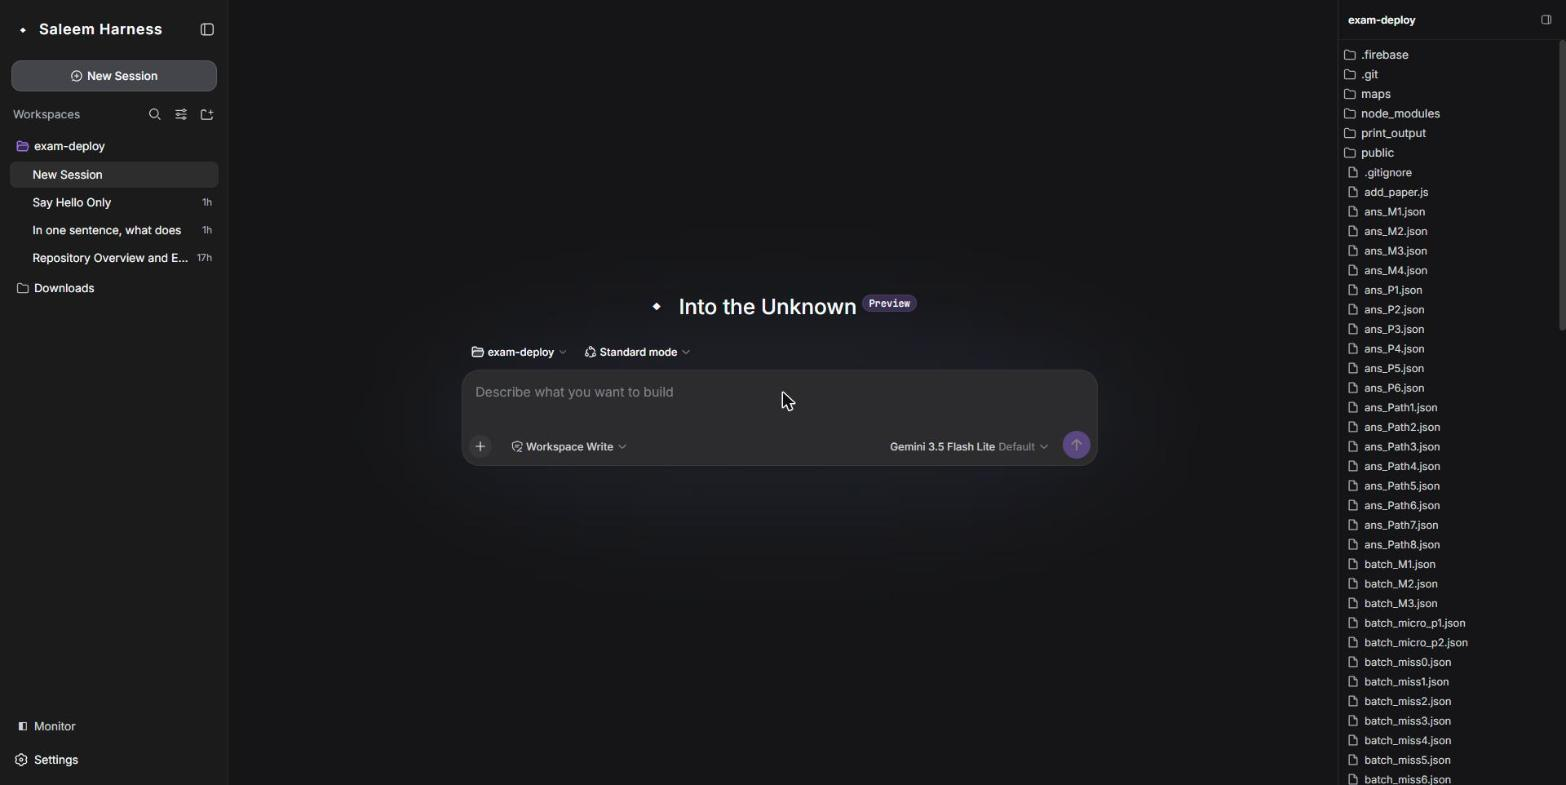
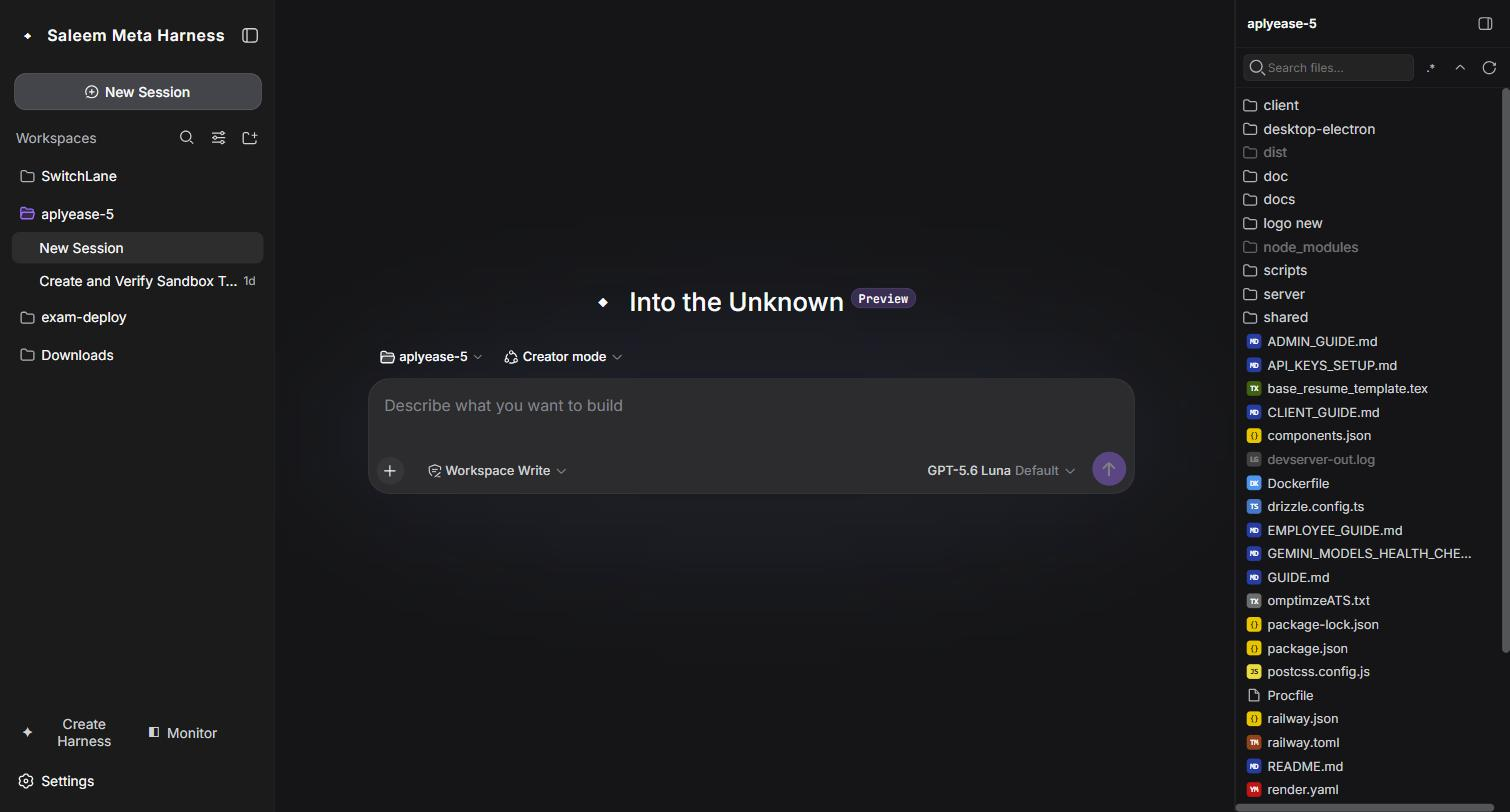
Bring stale brand-era tests current and refresh the README screenshots
Thirteen tests still asserted strings from two earlier rebrands and had been
failing ever since, so every test run carried noise that hid real regressions:

- The welcome notice test pinned the original DeepSeek two-paragraph copy; the
  shipped notice is one Saleem Meta Harness paragraph.
- The web-app and headless suites expected the printed command prefix to be
  'dsh' -- it has been 'saleem' since that rename.
- One prompt-section assertion still expected 'DeepSeek Harness implementation
  checkout'.
- The boot page test expected the wordmark 'HARNESS'; it renders 'SALEEM'. This
  one survived the last sweep because the wordmark is uppercase and the grep was
  for the mixed-case product name.

Two of these were pinned in ways that guaranteed they would go stale again, so
they are now derived rather than hardcoded: the notice's paragraph count comes
from the copy itself, and a new assertion pins that the notice carries the
product name at all -- which is the thing a rebrand actually breaks.

Screenshots were all from before the rename and before the factory existed, so
the README showed the old brand and none of the headline feature. Replaces the
main UI and Monitor overview shots, and adds two for the Harness Factory: the
template picker and a real generated harness with its persona, methodology and
both download options.

Broad test pass now fails 8 where it failed 19, with the remainder load-related
[…]

diff --git a/packages/bundle/web-app/tests/web-app.spec.ts b/packages/bundle/web-app/tests/web-app.spec.ts
@@ -127,16 +127,16 @@ describe('web-app runtime glue', () => {
       lanAddresses: ['192.168.1.5'],
       trustedHosts: ['192.168.1.5', 'lab.internal'],
     })
-    expect(log).toHaveBeenCalledWith('dsh web: http://127.0.0.1:4567 (LAN: http://192.168.1.5:4567)')
-    expect(log).toHaveBeenCalledWith('dsh web: opening the default browser; pass --no-open to disable')
+    expect(log).toHaveBeenCalledWith('saleem web: http://127.0.0.1:4567 (LAN: http://192.168.1.5:4567)')
+    expect(log).toHaveBeenCalledWith('saleem web: opening the default browser; pass --no-open to disable')
     expect(openBrowser).toHaveBeenCalledWith('http://127.0.0.1:4567')
     expect(lifecycle).toEqual([
-      'dsh web: http://127.0.0.1:4567 (LAN: http://192.168.1.5:4567)',
-      'dsh web: opening the default browser; pass --no-open to disable',
+      'saleem web: http://127.0.0.1:4567 (LAN: http://192.168.1.5:4567)',
+      'saleem web: opening the default browser; pass --no-open to disable',
       'open:http://127.0.0.1:4567',
     ])
     const assembly = await ctx.systemPrompt.assemble()
-    expect(assembly.sections.find(entry => entry.name === 'harness:source')?.text).toContain('DeepSeek Harness implementation checkout')
+    expect(assembly.sections.find(entry => entry.name === 'harness:source')?.text).toContain('Saleem Meta Harness implementation checkout')
     const section = assembly.sections.find(entry => entry.name === 'app:web-surface')
     expect(section?.text).toContain('http://127.0.0.1:4567')
     // The single update contract: the receiver is always on; no-refresh
@@ -193,7 +193,7 @@ describe('web-app runtime glue', () => {
     const log = vi.spyOn(console, 'log').mockImplementation(() => {})
     apply(ctx, new Config({ openBrowser: false, printUrl: true, surfaceContext: true, trustedHosts: [] }))
     await new Promise(resolve => setTimeout(resolve, 0))
-    expect(log).toHaveBeenCalledWith('dsh web: http://127.0.0.1:4567')
+    expect(log).toHaveBeenCalledWith('saleem web: http://127.0.0.1:4567')
     await ctx.fiber.dispose()
   })
 
@@ -210,7 +210,7 @@ describe('web-app runtime glue', () => {
     internals.openBrowser = openBrowser
     apply(ctx, new Config({ openBrowser: true, printUrl: true, surfaceContext: false, trustedHosts: [] }))
     await new Promise(resolve => setTimeout(resolve, 0))
-    expect(log).toHaveBeenCalledWith('dsh web: http://127.0.0.1:4567')
+    expect(log).toHaveBeenCalledWith('saleem web: http://127.0.0.1:4567')
     expect(openBrowser).not.toHaveBeenCalled()
     await ctx.fiber.dispose()
   })
@@ -233,7 +233,7 @@ describe('web-app runtime glue', () => {
     expect(openBrowser).not.toHaveBeenCalled()
     release!()
     await new Promise(resolve => setTimeout(resolve, 0))
-    expect(log).toHaveBeenCalledWith('dsh web: http://127.0.0.1:4567')
+    expect(log).toHaveBeenCalledWith('saleem web: http://127.0.0.1:4567')
     expect(openBrowser).toHaveBeenCalledWith('http://127.0.0.1:4567')
     await settled.fiber.dispose()
 
@@ -310,7 +310,7 @@ describe('web-app runtime glue', () => {
     const diagnostic = vi.spyOn(console, 'error').mockImplementation(() => {})
     apply(ctx, new Config({ openBrowser: true, printUrl: false, surfaceContext: false, trustedHosts: [] }))
     await new Promise(resolve => setTimeout(resolve, 0))
-    expect(log).toHaveBeenCalledWith('dsh web: opening the default browser; pass --no-open to disable')
+    expect(log).toHaveBeenCalledWith('saleem web: opening the default browser; pass --no-open to disable')
     expect(diagnostic).toHaveBeenCalledWith(
       `web-app: could not open the default browser because ${reason}; visit http://127.0.0.1:4567 manually`,
     )

diff --git a/packages/client/ui-settings-models/tests/welcome-notice.client.spec.tsx b/packages/client/ui-settings-models/tests/welcome-notice.client.spec.tsx
@@ -88,12 +88,20 @@ function mount(
 describe('WelcomeNotice', () => {
   it('uses the exact owner copy in both GUI locales', () => {
     expect(WELCOME_NOTICE_COPY.en).toEqual({
-      title: 'Internal Testing Notice',
-      body: "DeepSeek Harness 0.1 remains in testing for Harness developers. Many areas need further improvement, and we welcome feedback from the developer community. DeepSeek Harness's core plugins and foundational APIs will continue to evolve rapidly over the coming months.\n\nWe look forward to exploring the limits of intelligence with developers around the world, building on open-source, open, reusable, and composable infrastructure. We welcome Harness developers everywhere to join the DSH plugin ecosystem.",
+      title: 'Welcome',
+      body: 'Saleem Meta Harness is under active development; core plugins and foundational APIs may evolve quickly.',
       continueLabel: 'Continue',
     })
     expect(en.welcomeBody).toBe(WELCOME_NOTICE_COPY.en.body)
     expect(zh.welcomeBody).toBe(WELCOME_NOTICE_COPY.zh.body)
+  })
+
+  it('carries the product name, so a rebrand cannot leave this notice behind', () => {
+    // This copy went stale twice across two rebrands before anything caught it,
+    // because the assertion above pins the text and nothing pinned the name.
+    for (const locale of ['en', 'zh'] as const) {
+      expect(WELCOME_NOTICE_COPY[locale].body, locale).toContain('Saleem Meta Harness')
+    }
   })
 
   it('renders one blocking modal action and focuses the title', async () => {
@@ -102,7 +110,9 @@ describe('WelcomeNotice', () => {
     for (const paragraph of WELCOME_NOTICE_COPY.zh.body.split('\n\n')) {
       expect(screen.getByText(paragraph, { exact: true })).toBeTruthy()
     }
-    expect(dialog.querySelectorAll('p')).toHaveLength(2)
+    // Derived, not hardcoded: the notice renders one <p> per paragraph, so
+    // pinning a literal count re-breaks this test every time the copy is edited.
+    expect(dialog.querySelectorAll('p')).toHaveLength(WELCOME_NOTICE_COPY.zh.body.split('\n\n').length)
     expect(dialog.querySelectorAll('button')).toHaveLength(1)
     expect(screen.getByRole('button', { name: WELCOME_NOTICE_COPY.zh.continueLabel })).toBeTruthy()
     expect(document.activeElement).toBe(screen.getByRole('heading', { name: WELCOME_NOTICE_COPY.zh.title }))

diff --git a/packages/bundle/headless/tests/headless.spec.ts b/packages/bundle/headless/tests/headless.spec.ts
@@ -167,7 +167,7 @@ describe('headless runner', () => {
     expect(await test.run()).toMatchObject({
       code: 1,
       out: '\n',
-      err: 'dsh: SERVER: provider unavailable\n',
+      err: 'saleem: SERVER: provider unavailable\n',
     })
     await test.ctx.fiber.dispose()
   })
@@ -191,7 +191,7 @@ describe('headless runner', () => {
     ctx.provide('agents', { create: () => Promise.reject(new Error('factory exploded')) } as never)
     apply(ctx, { task: 't' })
     expect(await exited).toBe(1)
-    expect(err).toBe('dsh: factory exploded\n')
+    expect(err).toBe('saleem: factory exploded\n')
     await ctx.fiber.dispose()
   })
 
@@ -213,7 +213,7 @@ describe('headless runner', () => {
     ctx.provide('agents', { create: () => rejected } as never)
     apply(ctx, { task: 't' })
     expect(await exited).toBe(1)
-    expect(err).toBe('dsh: factory exploded\n')
+    expect(err).toBe('saleem: factory exploded\n')
     await ctx.fiber.dispose()
   })
 

diff --git a/packages/bundle/web-app/tests/startup.spec.ts b/packages/bundle/web-app/tests/startup.spec.ts
@@ -118,7 +118,7 @@ describe('web command-line provider', () => {
 
   it('prints its own help and leaves the consumer pending', async () => {
     const { values, observed } = await bootProvider(['--help'])
-    expect(observed.out).toContain('dsh --profile web')
+    expect(observed.out).toContain('saleem --profile web')
     expect(observed.out).toContain('--no-open')
     expect(observed.out).toContain('--trusted-host')
     expect(values).toBeUndefined()

diff --git a/packages/client/web/tests/boot-page.client.spec.ts b/packages/client/web/tests/boot-page.client.spec.ts
@@ -14,7 +14,7 @@ describe('BootPage', () => {
   it('draws the loading skeleton before any plugin state arrives', () => {
     const { el } = mount()
     expect(el.firstElementChild?.getAttribute('data-dsh-boot')).toBe('')
-    expect(el.textContent).toContain('HARNESS')
+    expect(el.textContent).toContain('SALEEM')
     expect(el.textContent).toContain('Loading plugins…')
   })
 

diff --git a/README.md b/README.md
@@ -27,11 +27,21 @@ Monitor**.
 
 ## Build a harness
 
-Open the web UI, click **✦ Create Harness**, pick a starting point (or let the model
-choose), and describe what you want. You get back:
+Open the web UI and click **✦ Create Harness**. Pick a starting point — or let the model
+choose — and describe what you want.
+
+![Create Harness — pick a starting point](docs/images/factory-templates.jpg)
+
+The model writes the persona and the methodology playbook, the chosen template is copied,
+and the result is **mounted** to prove it runs before you are shown it. A harness that
+cannot load is rolled back rather than left on the roster.
+
+![Create Harness — the generated harness](docs/images/factory-result.jpg)
+
+From there:
 
 - **Run it** — opens a session on the new harness immediately.
-- **Download** — a small archive that builds its runtime on first run.
+- **Download** — a small archive that builds its runtime on first run (needs node, git, pnpm).
 - **Download standalone** — the runtime included; unzip and run with only Node installed.
 
 How it works, and why a generated harness always mounts, is documented in
